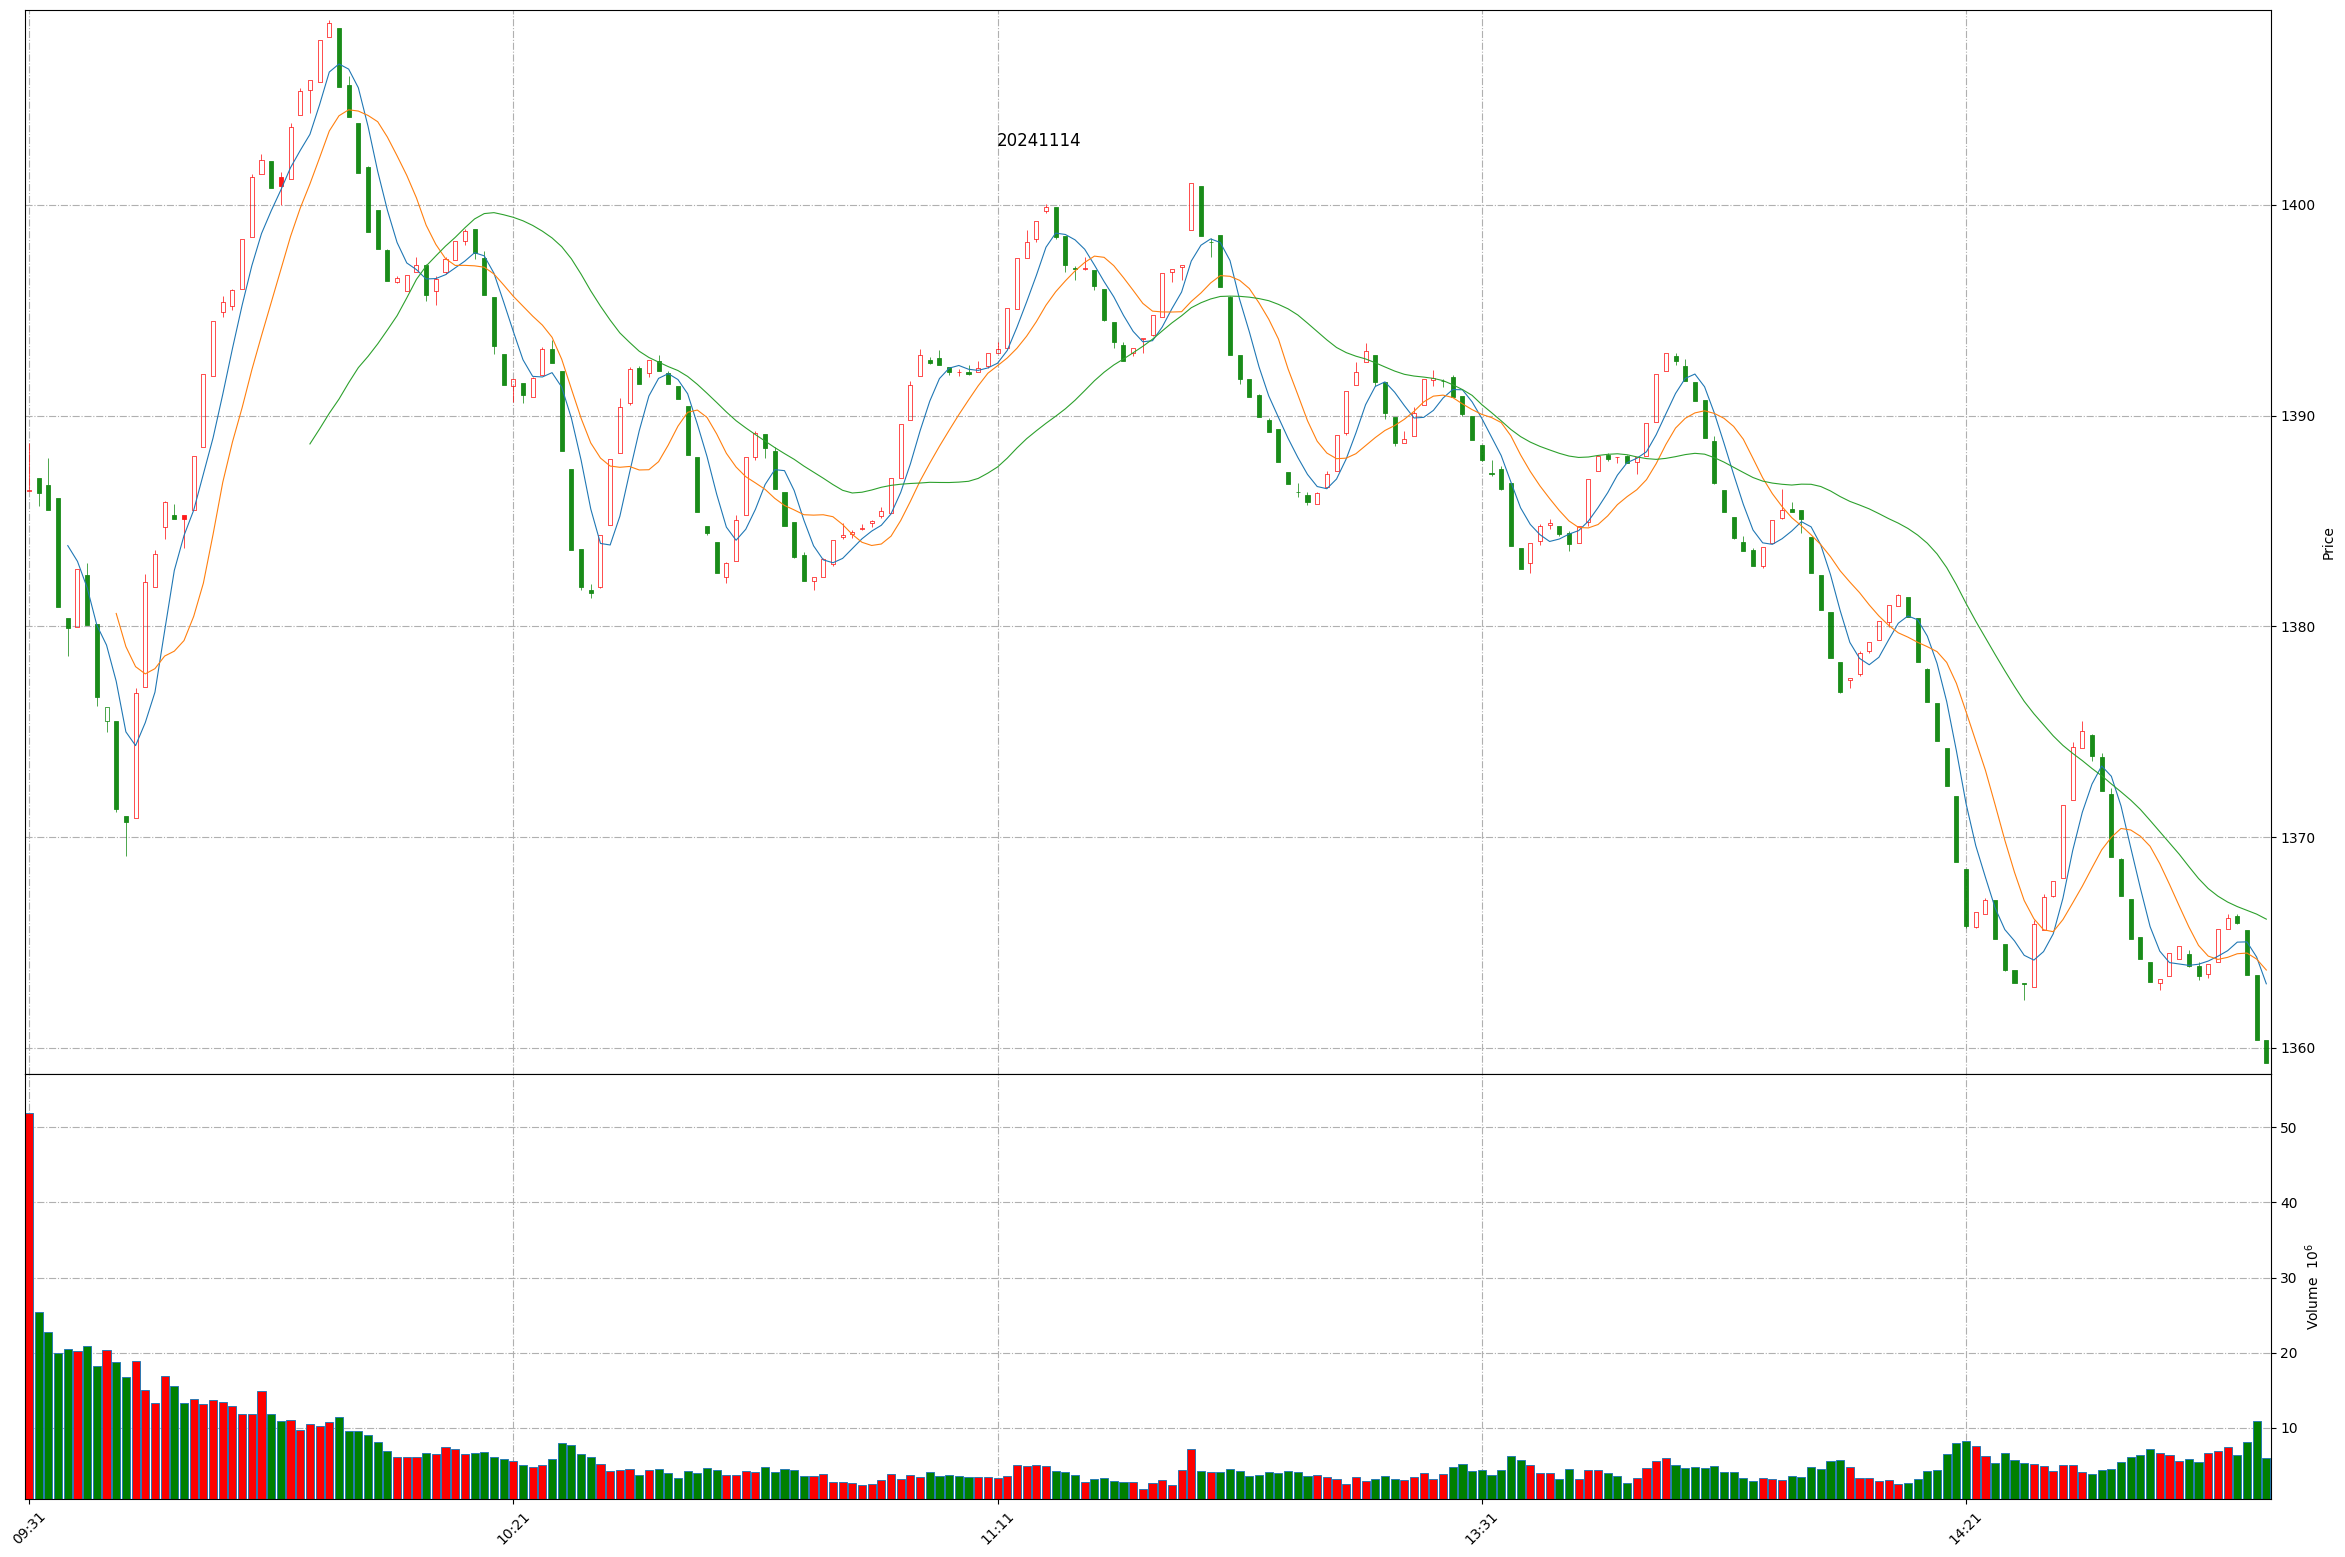
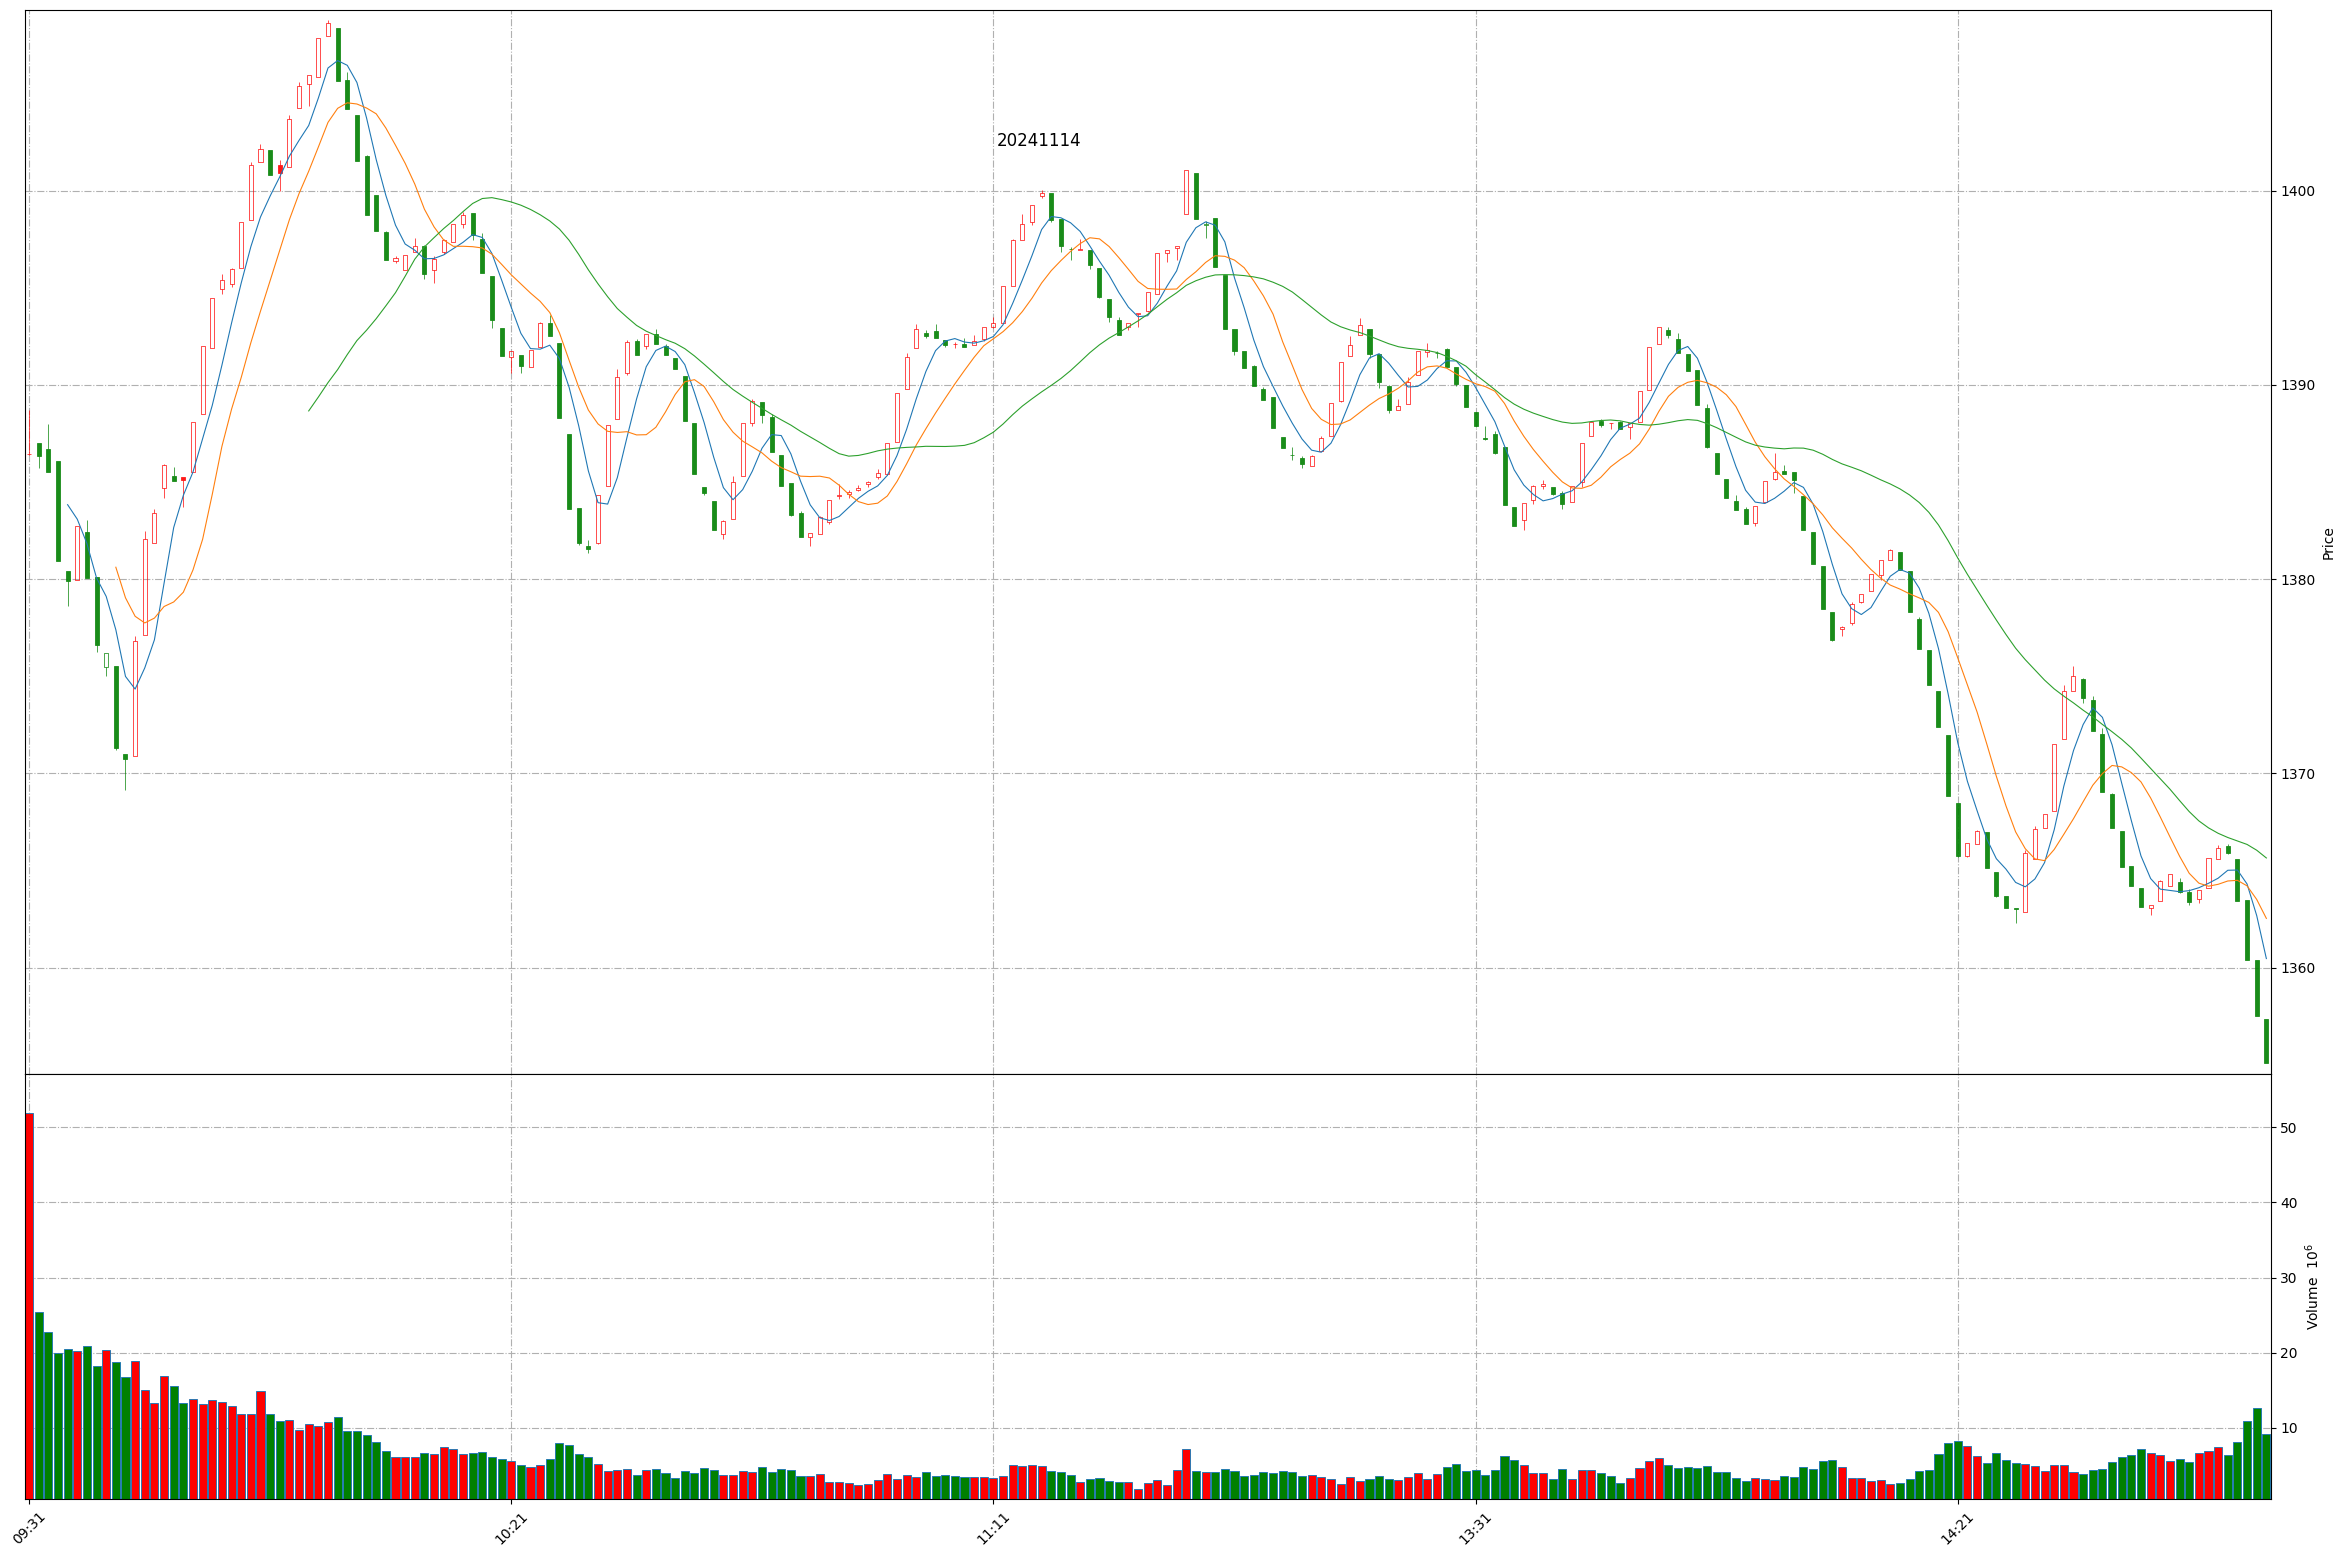
Github action update at 2024-11-14 14:52:59.

diff --git a/README.md b/README.md
@@ -1,11 +1,11 @@
 
 # Daily-A-share-market-quotes 每日 A 股指数（5min 更新）- 20241114
 
-### 上证指数 20241114 14:51
+### 上证指数 20241114 14:52
 ![](./fig/2024/11/20241114-sh000001.png)
 
-### 深证成指 20241114 14:51
+### 深证成指 20241114 14:52
 ![](./fig/2024/11/20241114-sz399001.png)
 
-### 北证50 20241114 14:51
+### 北证50 20241114 14:52
 ![](./fig/2024/11/20241114-bj899050.png)
